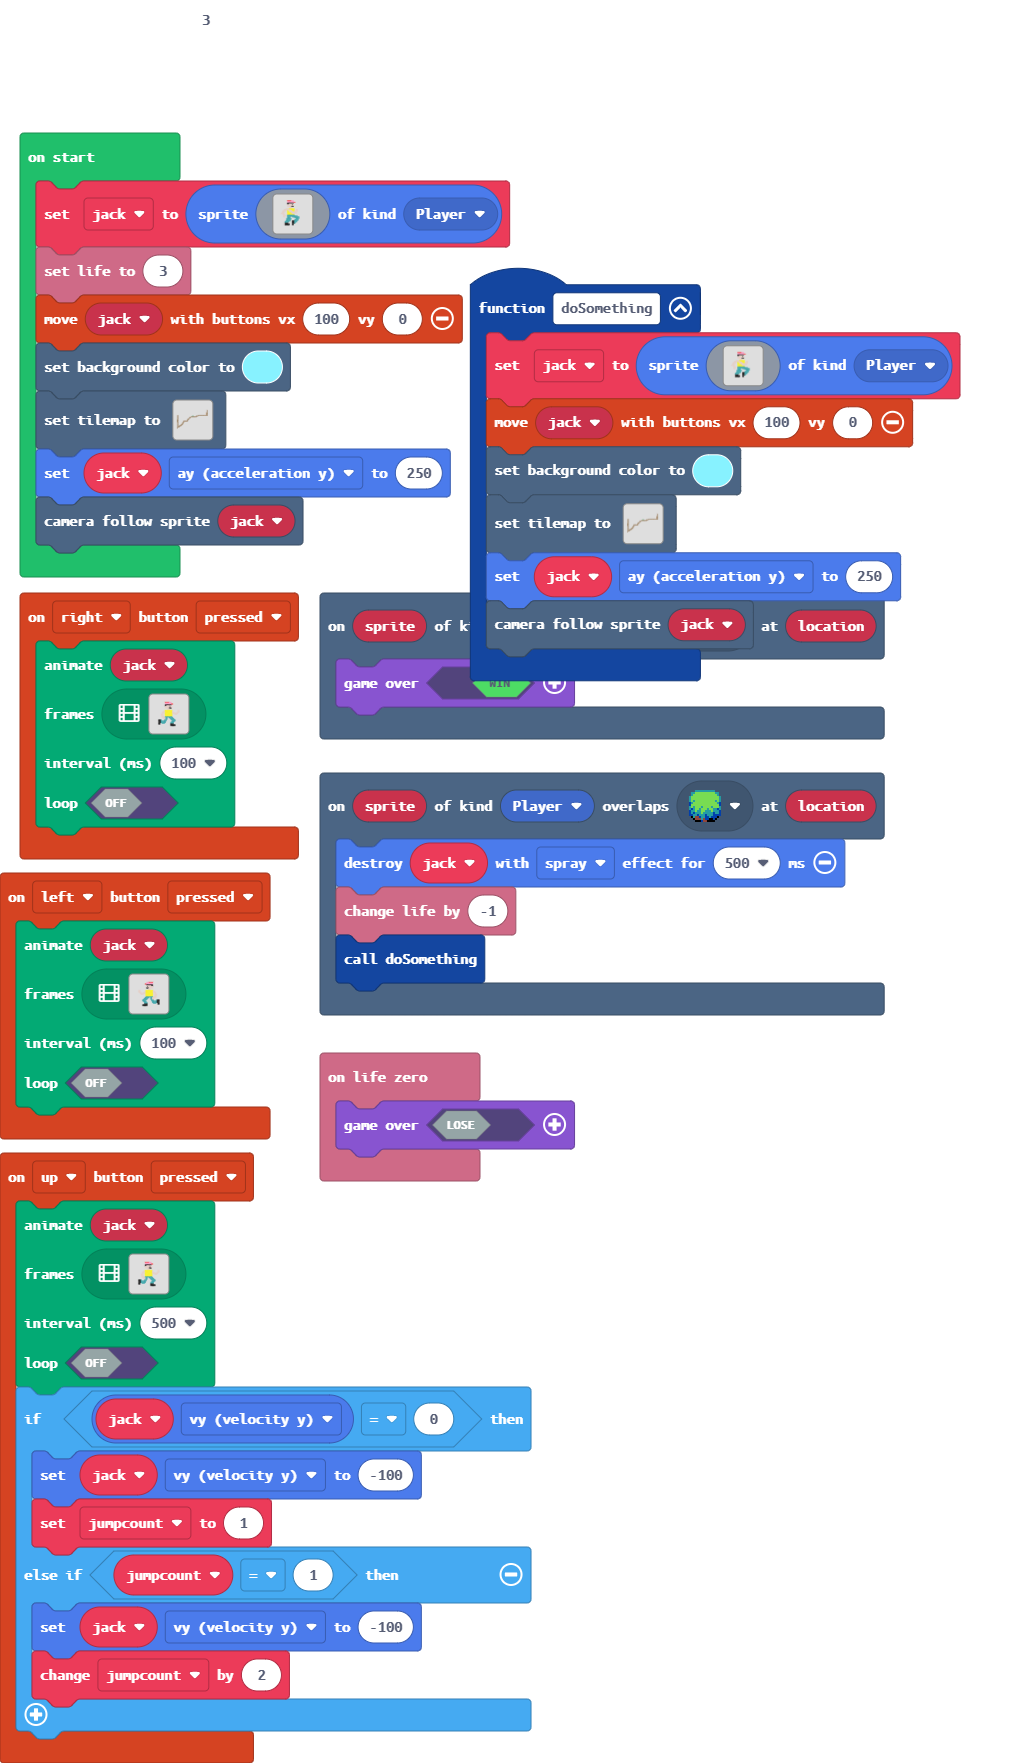
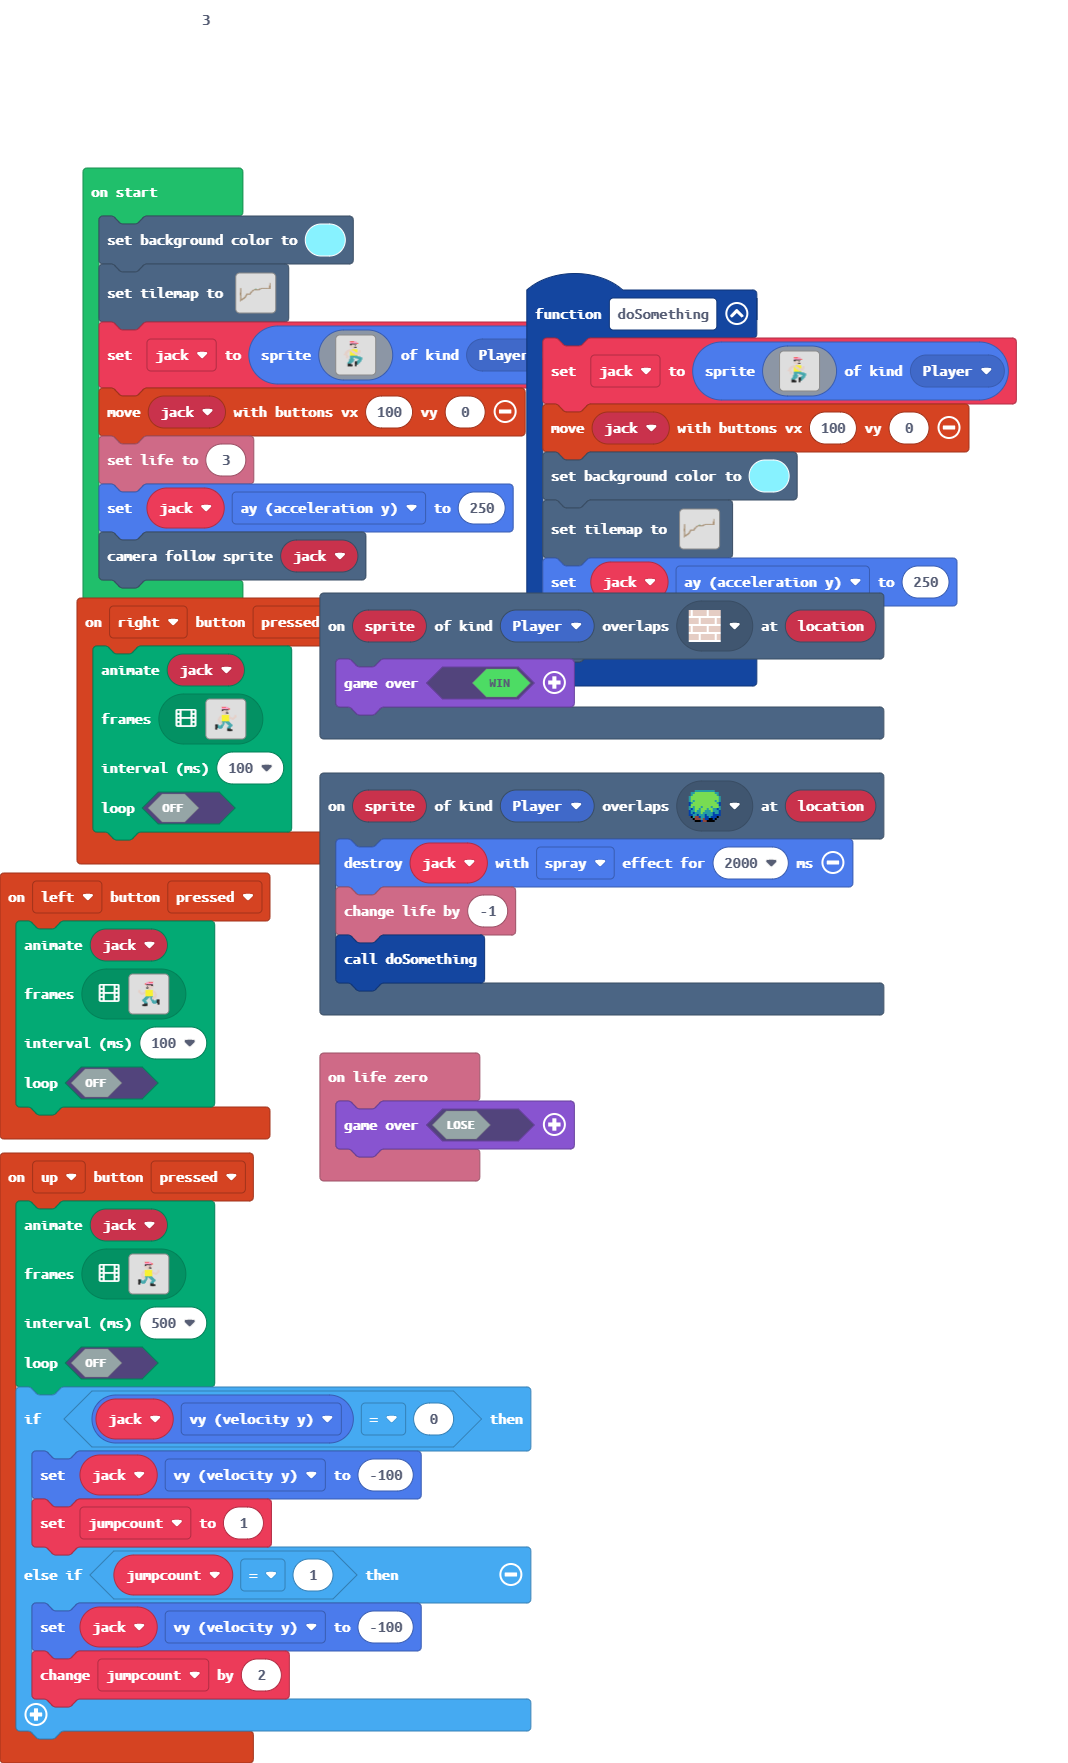
Update main.blocks, main.ts, main.py

Changed region(s): [[0.0, 0.0624, 0.9496, 1.0], [0.4595, 0.8735, 0.5514, 0.9983], [0.8271, 0.5303, 0.8883, 0.5927]]

diff --git a/main.ts b/main.ts
@@ -137,7 +137,7 @@ controller.up.onEvent(ControllerButtonEvent.Pressed, function () {
     }
 })
 scene.onOverlapTile(SpriteKind.Player, sprites.builtin.forestTiles0, function (sprite, location) {
-    jack.destroy(effects.spray, 500)
+    jack.destroy(effects.spray, 2000)
     info.changeLifeBy(-1)
     doSomething()
 })
@@ -419,10 +419,10 @@ info.onLifeZero(function () {
 })
 let jumpcount = 0
 let jack: Sprite = null
-jack = sprites.create(assets.image`image`, SpriteKind.Player)
-info.setLife(3)
-controller.moveSprite(jack, 100, 0)
 scene.setBackgroundColor(9)
 tiles.setTilemap(tilemap`level1`)
+jack = sprites.create(assets.image`image`, SpriteKind.Player)
+controller.moveSprite(jack, 100, 0)
+info.setLife(3)
 jack.ay = 250
 scene.cameraFollowSprite(jack)

diff --git a/main.py b/main.py
@@ -138,9 +138,9 @@ def on_up_pressed():
 controller.up.on_event(ControllerButtonEvent.PRESSED, on_up_pressed)
 
 def on_overlap_tile(sprite, location):
-    jack.destroy(effects.spray, 500)
+    jack.destroy(effects.spray, 2000)
     info.change_life_by(-1)
-    jack.set_position(14, 0)
+    doSomething()
 scene.on_overlap_tile(SpriteKind.player,
     sprites.builtin.forest_tiles0,
     on_overlap_tile)
@@ -414,8 +414,17 @@ def on_right_pressed():
 controller.right.on_event(ControllerButtonEvent.PRESSED, on_right_pressed)
 
 def doSomething():
-    pass
-    
+    global jack
+    jack = sprites.create(assets.image("""
+        image
+    """), SpriteKind.player)
+    controller.move_sprite(jack, 100, 0)
+    scene.set_background_color(9)
+    tiles.set_tilemap(tilemap("""
+        level1
+    """))
+    jack.ay = 250
+    scene.camera_follow_sprite(jack)
 
 def on_life_zero():
     game.over(False)
@@ -423,14 +432,14 @@ info.on_life_zero(on_life_zero)
 
 jumpcount = 0
 jack: Sprite = None
-jack = sprites.create(assets.image("""
-    image
-"""), SpriteKind.player)
-info.set_life(3)
-controller.move_sprite(jack, 100, 0)
 scene.set_background_color(9)
 tiles.set_tilemap(tilemap("""
     level1
 """))
+jack = sprites.create(assets.image("""
+    image
+"""), SpriteKind.player)
+controller.move_sprite(jack, 100, 0)
+info.set_life(3)
 jack.ay = 250
 scene.camera_follow_sprite(jack)
